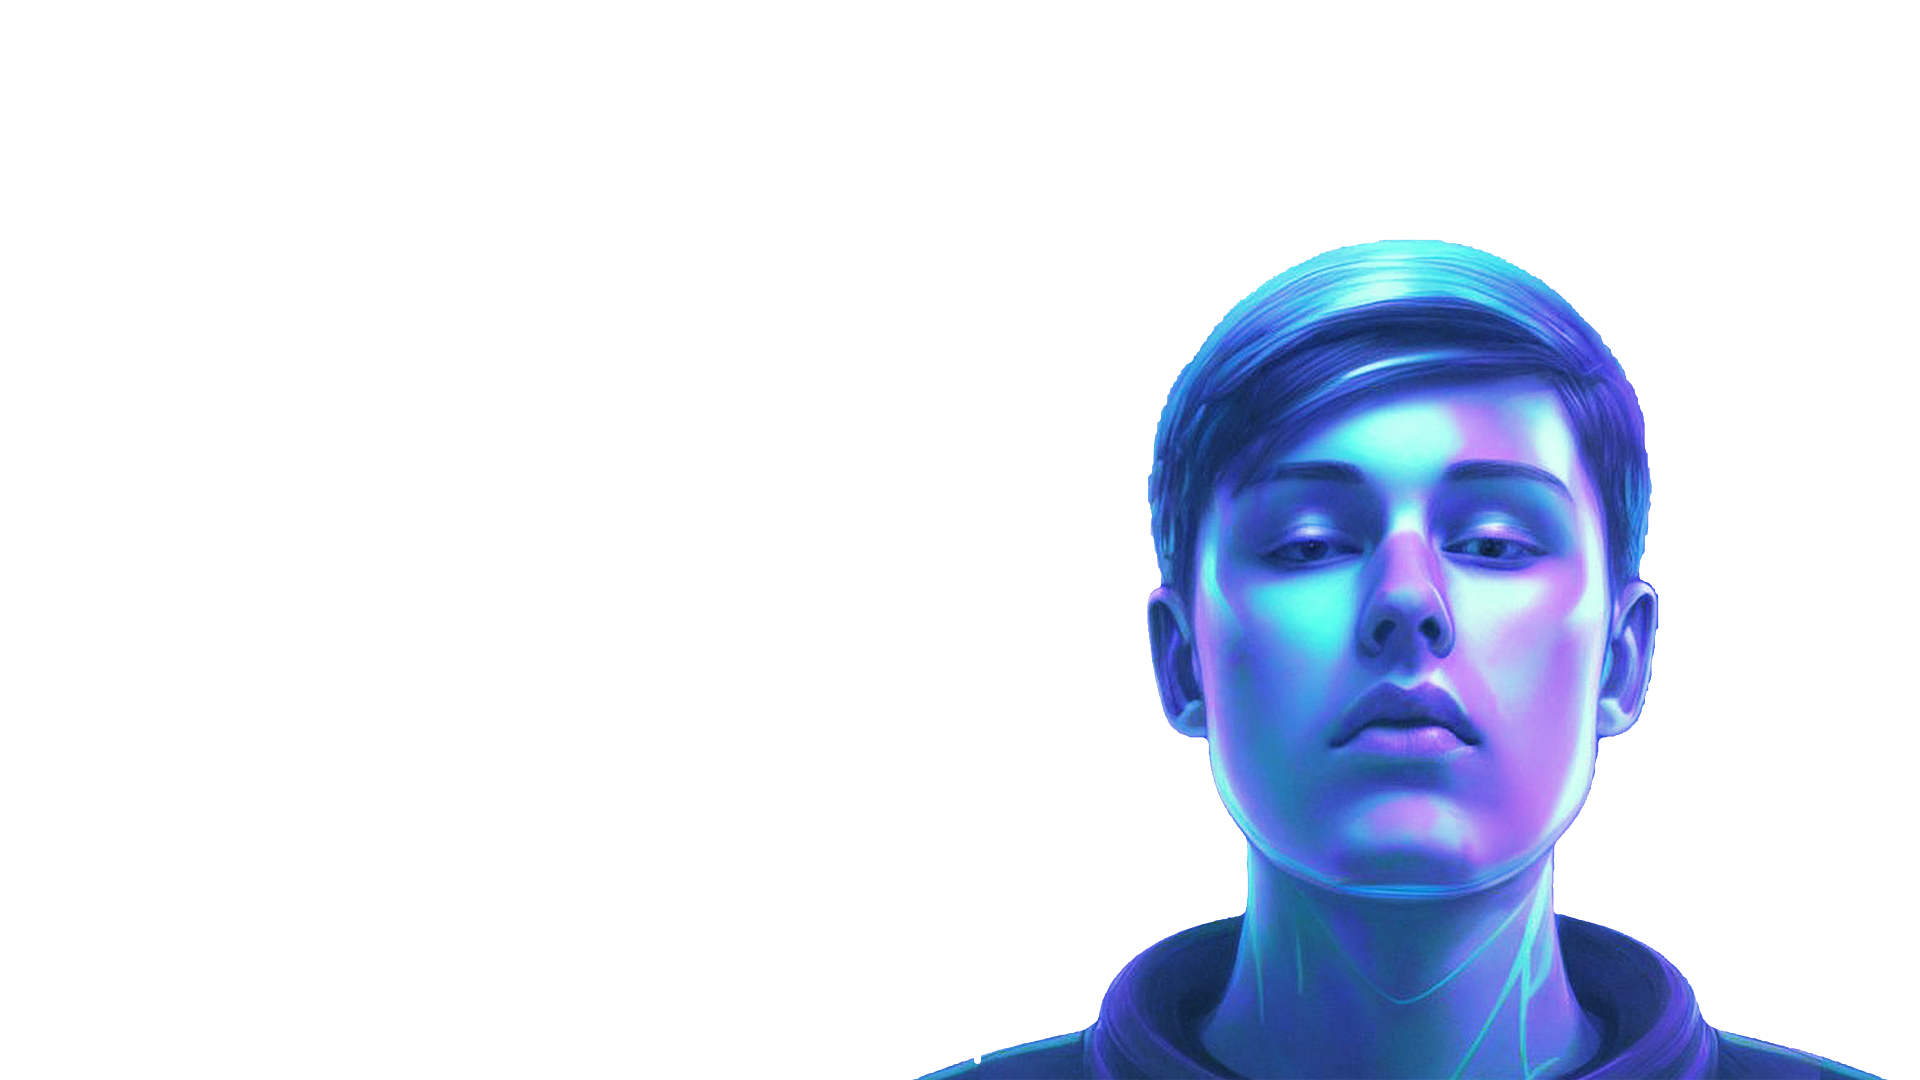
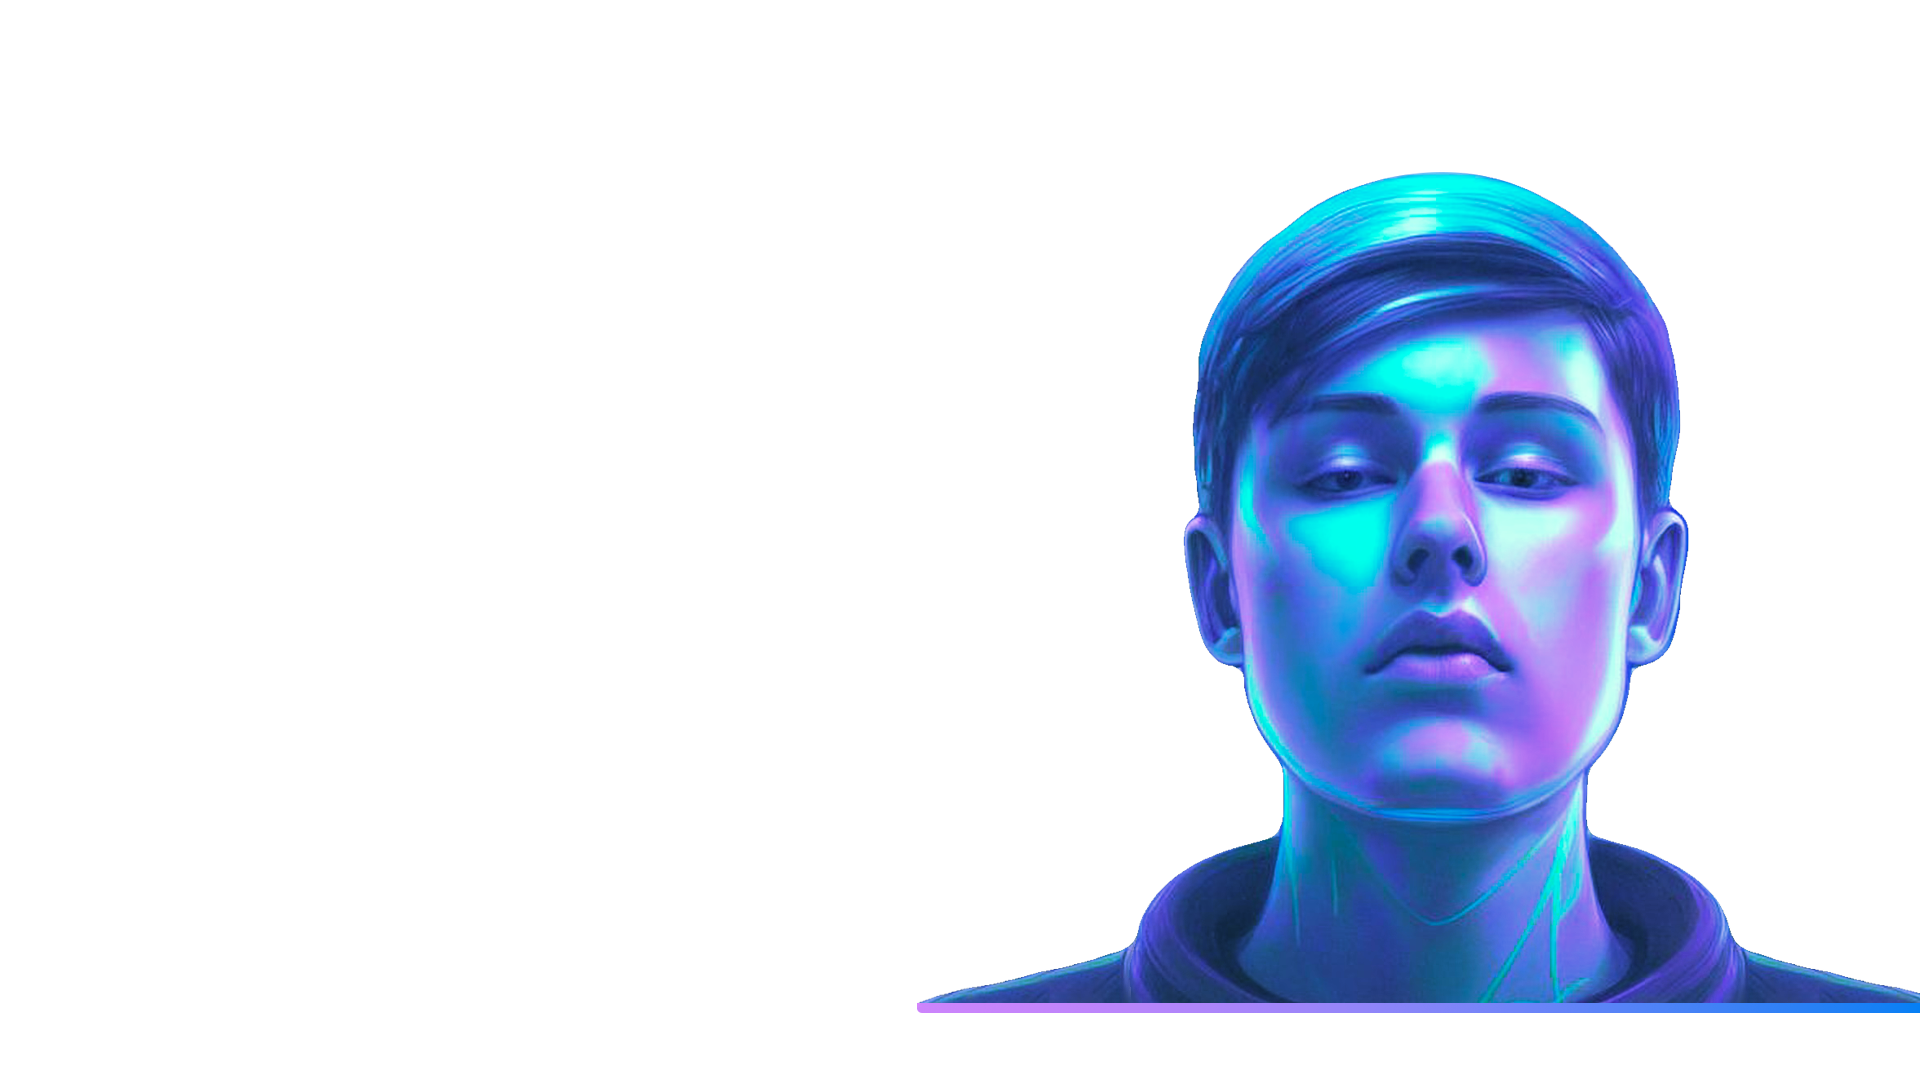
image header update

Changed region(s): [[0.4688, 0.1528, 1.0, 1.0]]

diff --git a/src/containers/header/Header.jsx b/src/containers/header/Header.jsx
@@ -21,8 +21,7 @@ const Header = () => {
   return (
     <div className='portfolio__header section__padding' id="home">
       <div className='portfolio__header-content'>
-        <img src={Me} data-value="0.7" alt="me" />
-        
+        <img src={Me} data-value="1" alt="me" />
         <h1>Hi👋,<br/>I'm <span className="gradient__text">Nicolay Andre Olsen</span><br/> Frontend Developer</h1>
         <a href=''>Download CV</a>
       </div>

diff --git a/src/containers/header/header.css b/src/containers/header/header.css
@@ -37,8 +37,8 @@
     position: absolute;
     top: 0;
     right: 0;
-    width: 90%;
-    height: 90%;
+    width: 100%;
+    height: 100%;
     margin-top: 1rem;
     object-fit: cover;
     -webkit-user-drag: none;
